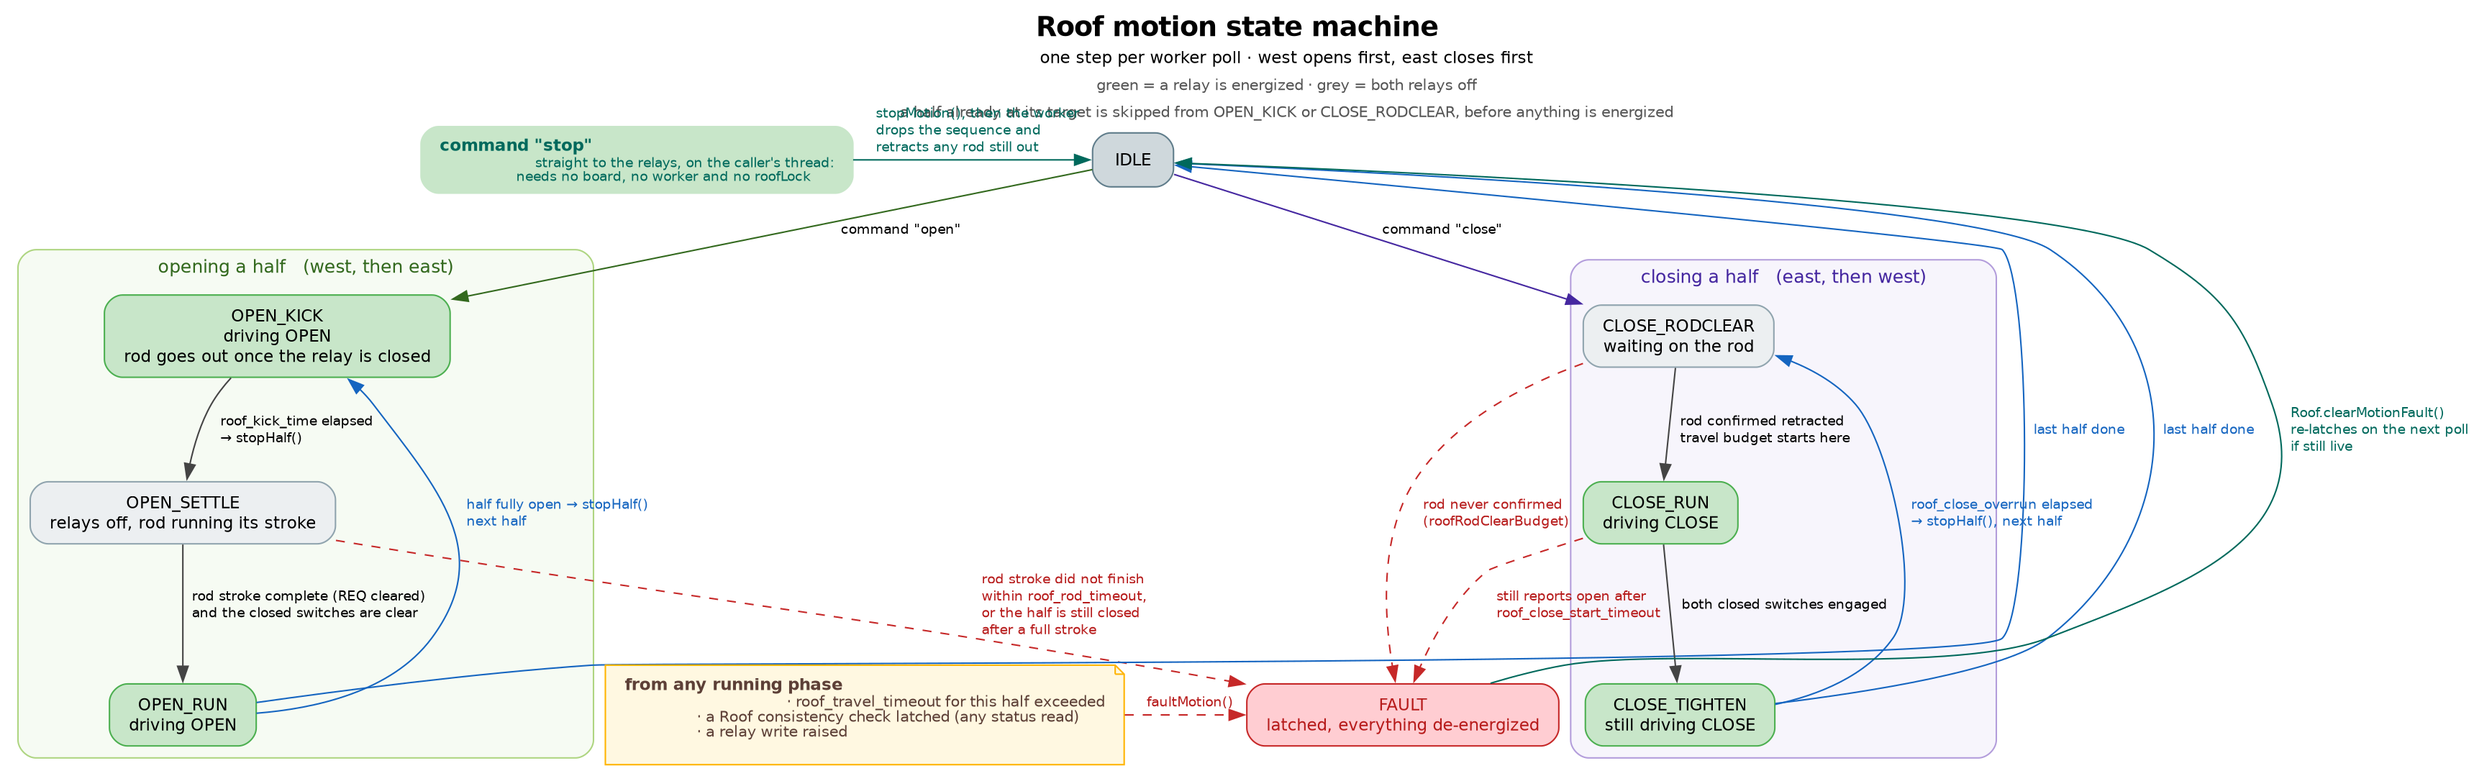
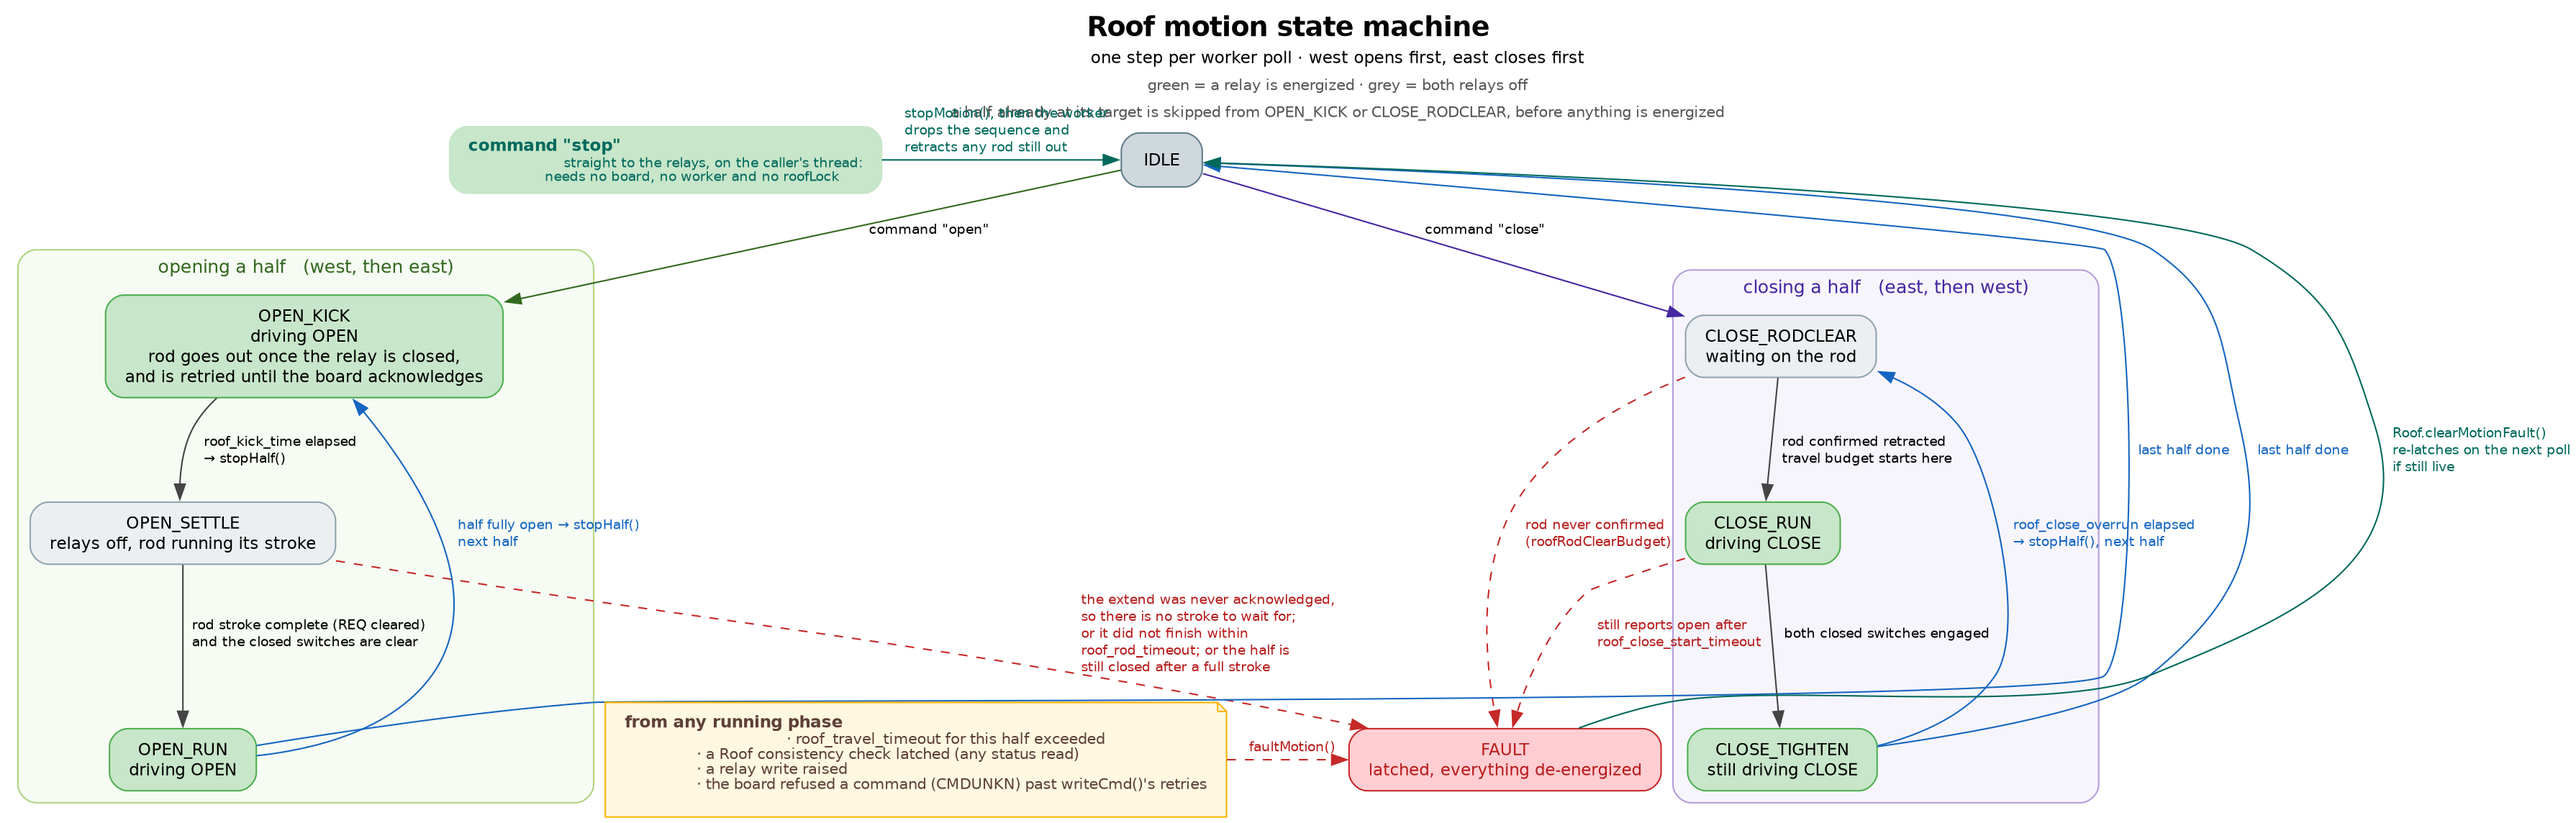
Treat a refused board command as a failure, and verify the rod took its extend
cmdUnkn() answers an unrecognised command with CMDUNKN set and every other bit
clear, so a rejection decodes as a perfectly plausible status: no switch engaged,
neither rod out, fans off. Nothing tested that bit, so three places acted on it.
OPEN_SETTLE read the clear REQ bit as a finished rod stroke and, if the kick alone
had shaken the closed switches off a half stuck just past them, promoted to
OPEN_RUN having never pushed. CLOSE_RODCLEAR read the clear STATE bit as a stowed
rod and would pull a half down onto one still out. And the absence check counted
it as "neither half at an end position", blaming the roof for a link fault.

writeCmd() now treats such a reply as a failed attempt, which is what it is: the
command byte is built from CMD and is always one the firmware knows, so a refusal
means it arrived corrupted, and re-sending is exactly the fix. After the retries
it raises the SerialException every caller already handles. One check, and all
five callers stop reading a rejection as a status.

The extend's own reply is then read rather than discarded. The firmware sets
m_state = EXTEND inside extend() before building the status, so an accepted extend
always answers with REQ set; anything else -- a corrupted reply word, a board that
took the bytes without acting -- leaves rodSent False and the next tick tries
again, still inside the kick. Nothing in that block returns any more, so a rod
that will not go out no longer stalls the phase machine: the kick still ends on
[…]

diff --git a/oms/roof.py b/oms/roof.py
@@ -415,12 +415,18 @@ class Roof():
                 if self.__serial is None:
                     self.connect()
                 data = self.__transact(payload, self.RESPONSE_SIZE)
-                if len(data) == self.RESPONSE_SIZE:
+                if len(data) != self.RESPONSE_SIZE:
+                    # The board only answers when spoken to, so a short read means this
+                    # exchange is over. Recovering requires re-sending the command;
+                    # reading again without one can only ever time out.
+                    lastError = "incomplete response ({} of {} bytes)".format(len(data), self.RESPONSE_SIZE)
+                elif self.__rejected(data):
+                    # Retry rather than give up: the command byte is built here from CMD
+                    # and is always one the firmware knows, so a rejection means it
+                    # arrived corrupted, and re-sending is exactly what fixes that.
+                    lastError = "board did not recognise {}".format(cmd.name)
+                else:
                     return data
-                # The board only answers when spoken to, so a short read means this
-                # exchange is over. Recovering requires re-sending the command;
-                # reading again without one can only ever time out.
-                lastError = "incomplete response ({} of {} bytes)".format(len(data), self.RESPONSE_SIZE)
             except (SerialException, OSError, RuntimeError) as e:
                 lastError = str(e)
                 # Drop the connection so the next attempt reopens it. Never raises.
@@ -439,6 +445,20 @@ class Roof():
         self.disconnect()
         raise SerialException("No valid response from roof board on {} after {} attempts: {}".format(
             self.__port, retries + 1, lastError))
+
+    def __rejected(self, response):
+        """Whether this reply is the firmware's "I did not understand that".
+
+        cmdUnkn() answers an unrecognised command with CMDUNKN set and every other bit
+        clear, which is why this cannot be left to the decoder: a rejection decodes as a
+        perfectly plausible status -- no switch engaged, neither rod out, fans off. Read
+        as one it is actively dangerous. OPEN_SETTLE takes a clear REQ bit for a finished
+        rod stroke and would run the half open on gravity having never pushed it;
+        CLOSE_RODCLEAR takes a clear STATE bit for a stowed rod and would close a half
+        onto one still out; and the absence check would blame the roof for what is a
+        link fault. So it is treated as a failed exchange, which is what it is.
+        """
+        return bool(int.from_bytes(response, "little") & (1 << ResponseState.CMDUNKN.value))
 
     def decodeResponse(self, response):
         buff = np.frombuffer(response, dtype=np.uint16)[0]
